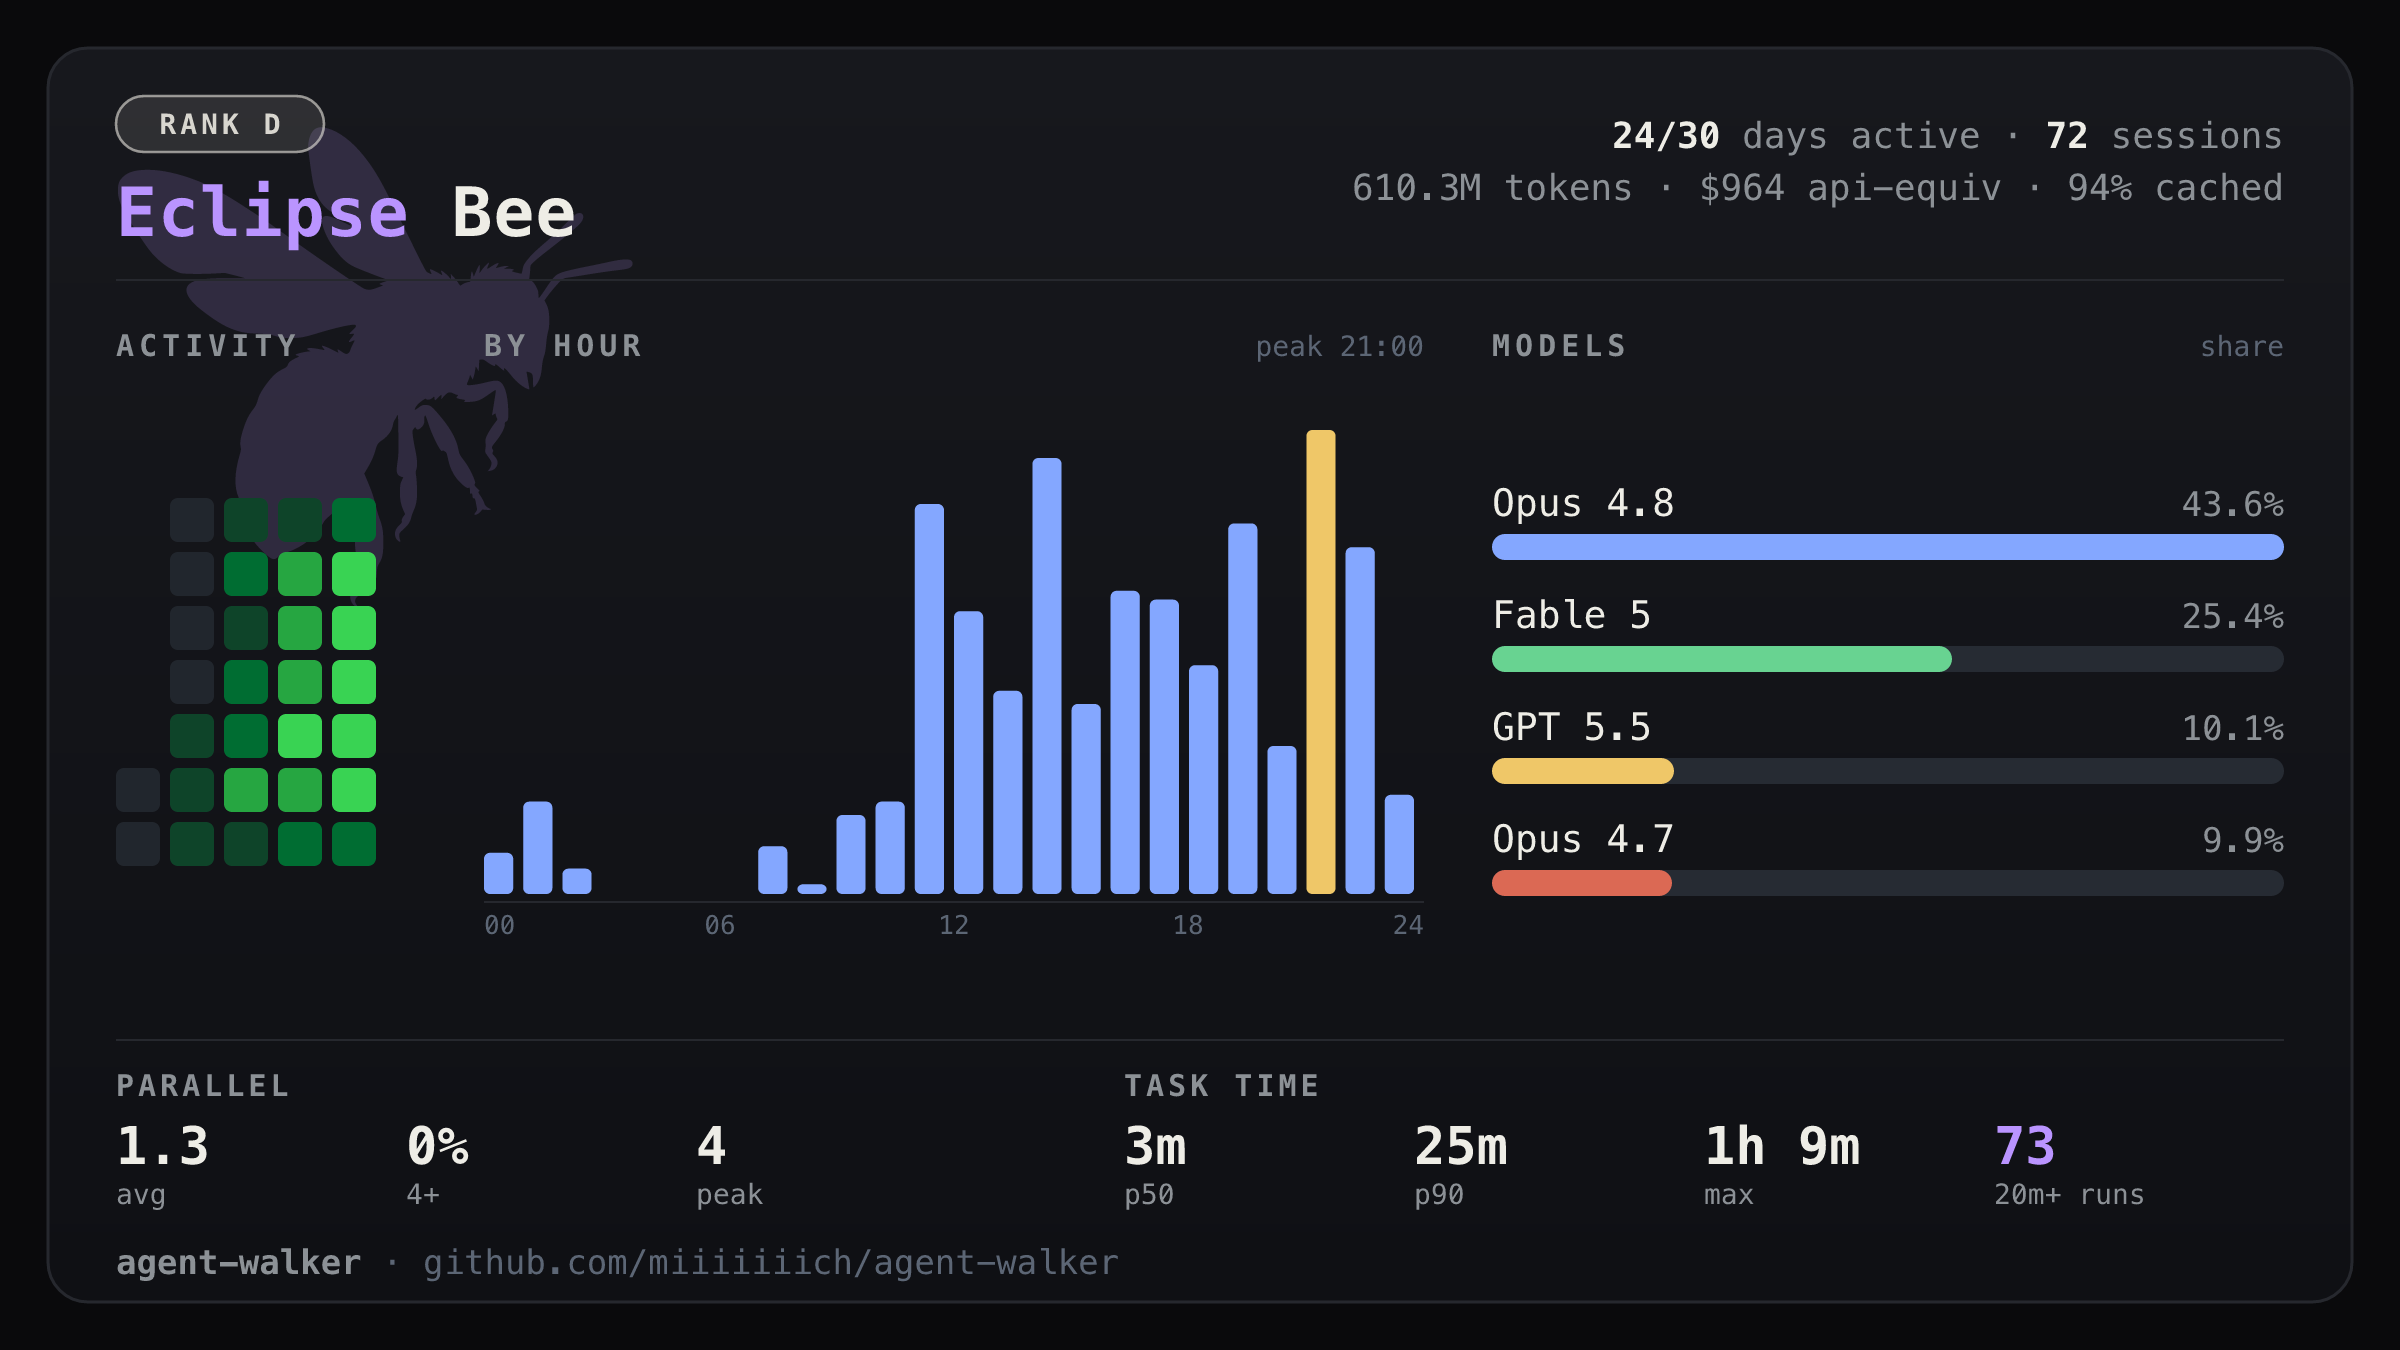
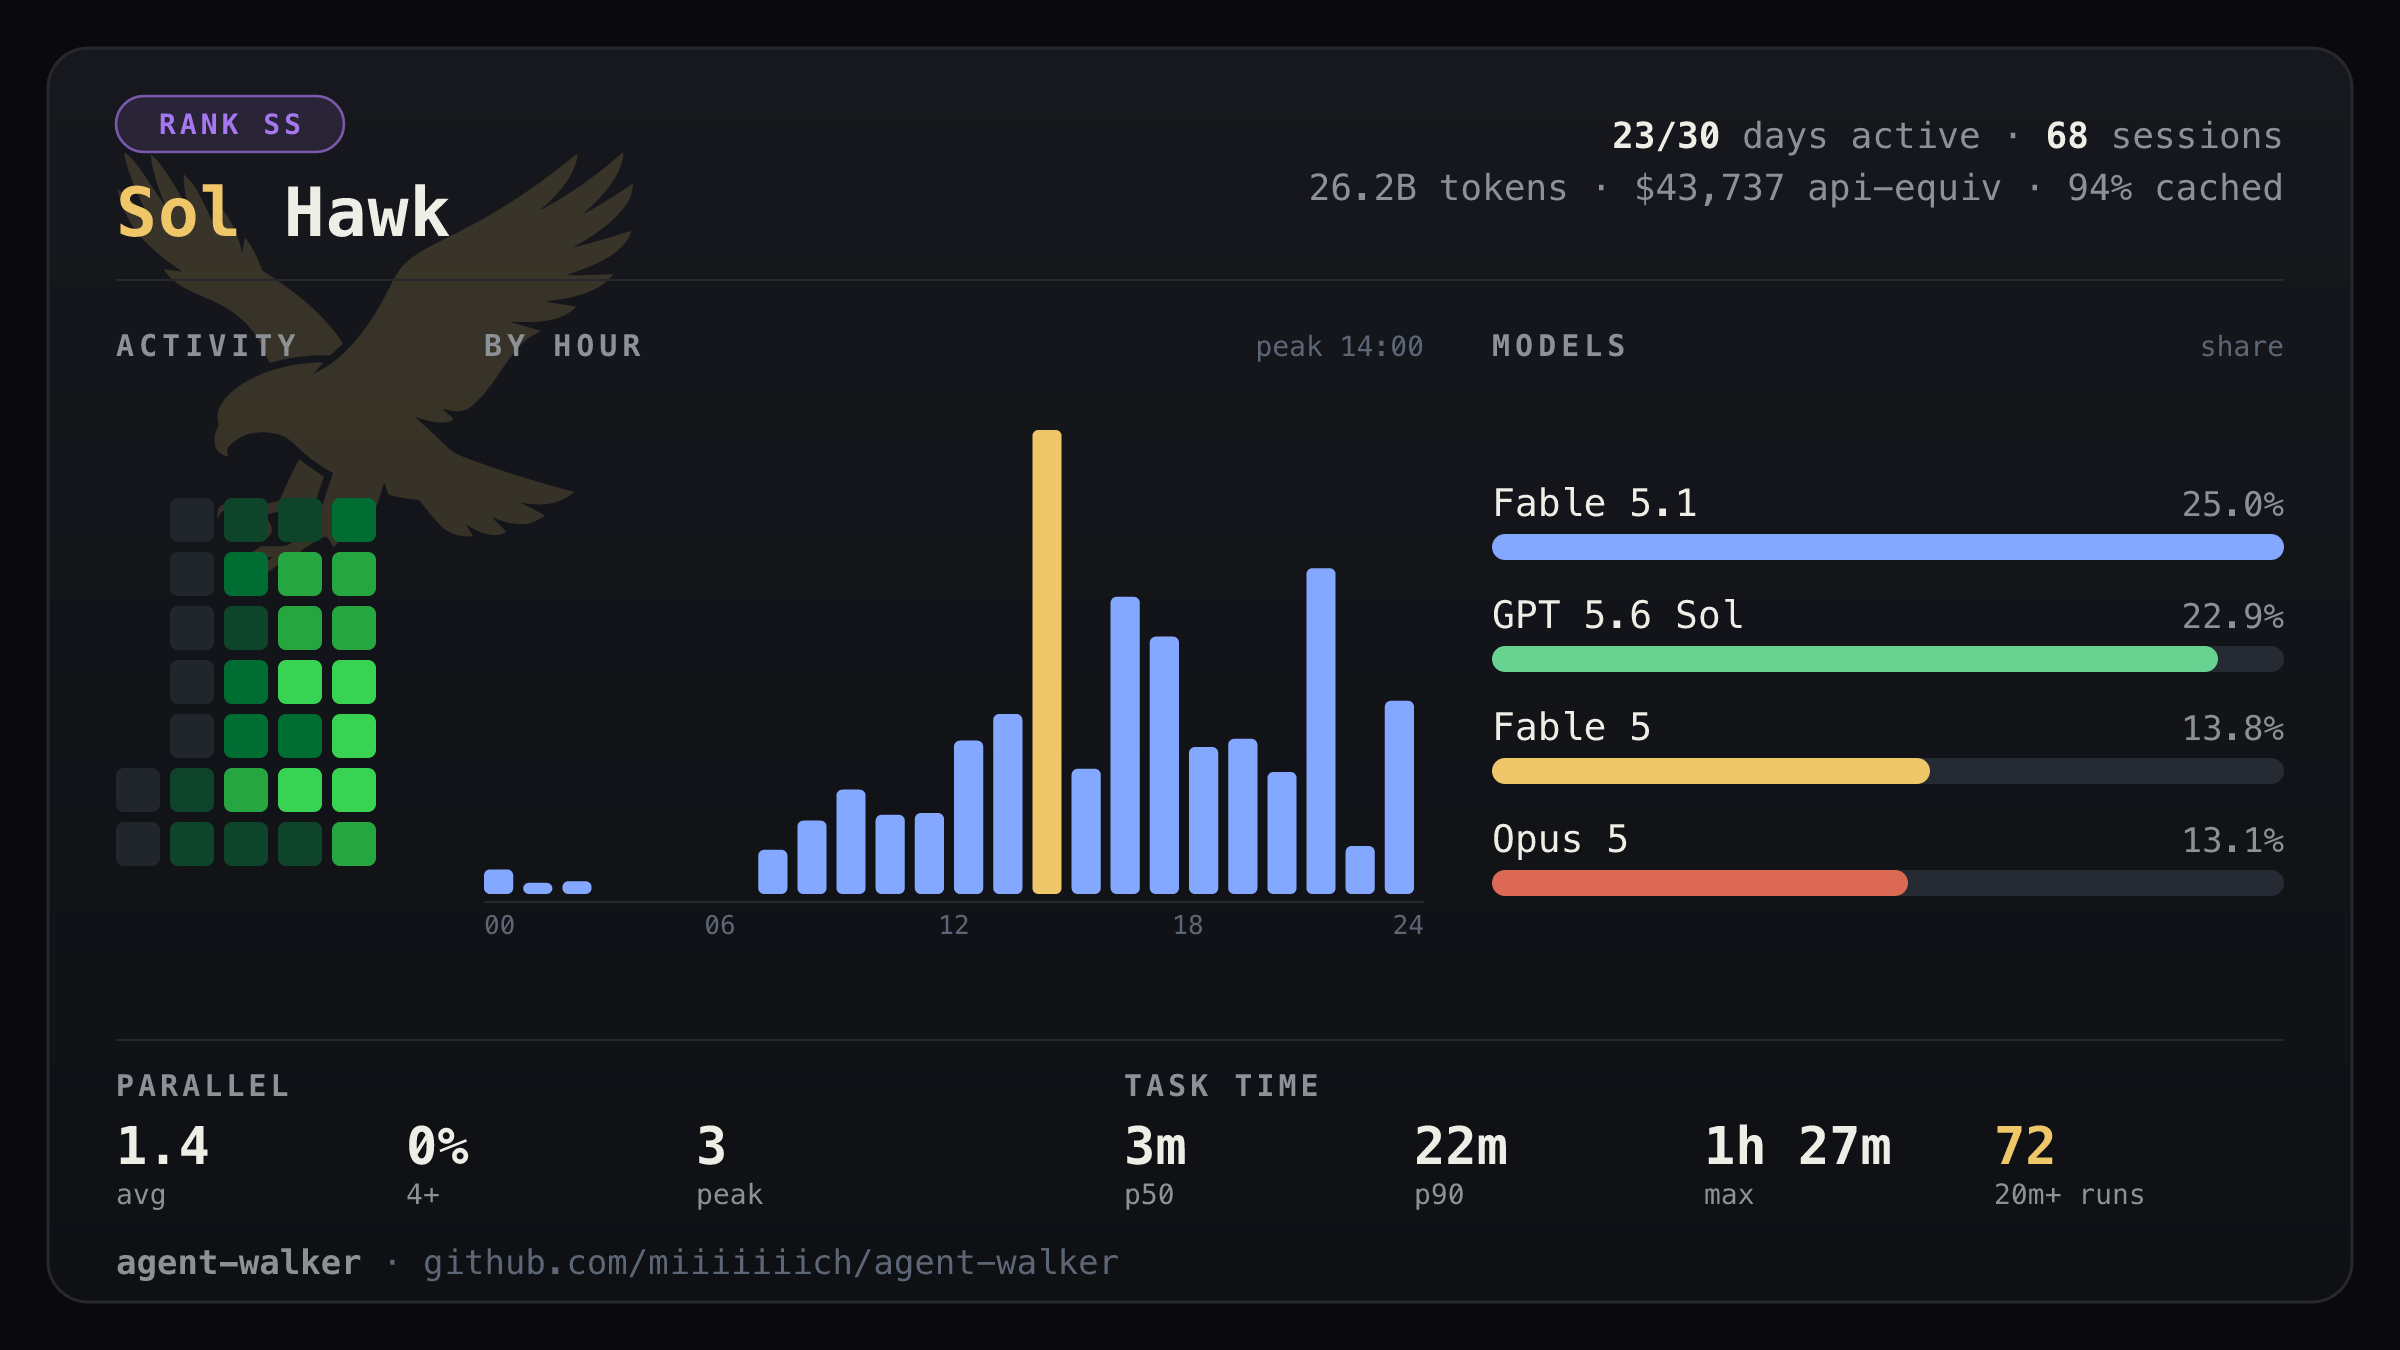
README badges, demo on current models, and a model-label fix (#73)

diff --git a/src/demo.rs b/src/demo.rs
@@ -10,9 +10,11 @@ use time::{Duration, OffsetDateTime, Time, Weekday};
 
 use crate::analyzer::summarize;
 use crate::app::Config;
+#[cfg(test)]
+use crate::model::CreditSample;
 use crate::model::{
-    AppSummary, Collection, CreditSample, DurationEvent, EffortEvent, ModeEvent, Provider,
-    RateLimitSample, SessionTouch, SourceKind, TokenUsage, ToolEvent, UsageEvent,
+    AppSummary, Collection, DurationEvent, EffortEvent, ModeEvent, Provider, RateLimitSample,
+    SessionTouch, SourceKind, TokenUsage, ToolEvent, UsageEvent,
 };
 
 struct Rng(u64);
@@ -124,25 +126,32 @@ fn pick_project(rng: &mut Rng) -> String {
     PROJECTS[index].to_owned()
 }
 
-/// Claude model mix shifts over the period: an older Opus era hands over to
-/// the newer one, with Haiku doing background work throughout.
+/// Claude model mix shifts over the period: the Opus 4.x era hands over to
+/// the Claude 5 family (Fable 5 → Fable 5.1), with Sonnet on lighter turns and
+/// Haiku doing background work throughout.
 fn pick_claude_model(rng: &mut Rng, progress: f64) -> &'static str {
-    if rng.chance(6) {
+    if rng.chance(5) {
         return "claude-haiku-4-5";
     }
-    if progress > 0.85 && rng.chance(25) {
-        return "claude-fable-5";
+    if rng.chance(4) {
+        return "claude-sonnet-5";
     }
-    if progress < 0.45 {
-        if rng.chance(92) {
+    if progress < 0.35 {
+        if rng.chance(70) {
             "claude-opus-4-7"
         } else {
-            "claude-sonnet-4-6"
+            "claude-opus-5"
         }
-    } else if rng.chance(94) {
-        "claude-opus-4-8"
+    } else if progress < 0.7 {
+        if rng.chance(55) {
+            "claude-fable-5"
+        } else {
+            "claude-opus-5"
+        }
+    } else if rng.chance(75) {
+        "claude-fable-5-1"
     } else {
-        "claude-opus-4-7"
+        "claude-opus-5"
     }
 }
 
@@ -189,7 +198,8 @@ fn daily_volume(rng: &mut Rng, progress: f64, weekday: Weekday) -> u64 {
     if progress < 0.3 && rng.chance(55) {
         return 0;
     }
-    let ramp = 4_000_000.0 + 56_000_000.0 * progress * progress;
+    // Envelope tuned so the demo Claude tab lands in the S band and Codex (at 1/2) in the A band.
+    let ramp = 160_000_000.0 + 1_450_000_000.0 * progress * progress;
     let noise = rng.range(50, 160) as f64 / 100.0;
     let weekend = matches!(weekday, Weekday::Saturday | Weekday::Sunday);
     let weekend_factor = if weekend { 0.35 } else { 1.0 };
@@ -305,6 +315,22 @@ fn claude_collection(now: OffsetDateTime, days: u16, rng: &mut Rng) -> Collectio
     clippy::cast_precision_loss,
     reason = "Day indices are tiny; precision is irrelevant for fake data."
 )]
+/// Codex model mix: GPT-5.6 Sol for most of the period, GPT-6 Astra taking
+/// over toward the end.
+fn pick_codex_model(rng: &mut Rng, progress: f64) -> &'static str {
+    if progress > 0.75 && rng.chance(80) {
+        "gpt-6-astra"
+    } else if rng.chance(90) {
+        "gpt-5.6-sol"
+    } else {
+        "gpt-5.6-terra"
+    }
+}
+
+#[allow(
+    clippy::cast_precision_loss,
+    reason = "Day indices are tiny; precision is irrelevant for fake data."
+)]
 fn codex_collection(now: OffsetDateTime, days: u16, rng: &mut Rng) -> Collection {
     let mut collection = Collection::new(Provider::Codex, PathBuf::from("demo data"));
     let total_days = i64::from(days.max(1));
@@ -312,8 +338,8 @@ fn codex_collection(now: OffsetDateTime, days: u16, rng: &mut Rng) -> Collection
     for day_index in 0..total_days {
         let date = (now - Duration::days(total_days - 1 - day_index)).date();
         let progress = day_index as f64 / total_days as f64;
-        let volume = daily_volume(rng, progress, date.weekday()) / 4;
-        if volume == 0 || rng.chance(35) {
+        let volume = daily_volume(rng, progress, date.weekday()) / 10 * 7;
+        if volume == 0 || rng.chance(10) {
             continue;
         }
 
@@ -326,7 +352,7 @@ fn codex_collection(now: OffsetDateTime, days: u16, rng: &mut Rng) -> Collection
         collection.usage_events.push(UsageEvent {
             timestamp: Some(timestamp),
             session_id: Some(session_id.clone()),
-            model: Some("gpt-5.5".to_owned()),
+            model: Some(pick_codex_model(rng, progress).to_owned()),
             source_kind: SourceKind::Main,
             attribution_agent: None,
             attribution_skill: None,
@@ -394,6 +420,7 @@ fn codex_collection(now: OffsetDateTime, days: u16, rng: &mut Rng) -> Collection
 /// Copilot demo: session-exit token deltas plus the AI-credit ledger the
 /// CREDITS panel renders. Kept lighter than Claude/Codex — a secondary agent
 /// in the demo persona.
+#[cfg(test)]
 #[allow(
     clippy::cast_precision_loss,
     reason = "Day indices are tiny; precision is irrelevant for fake data."
@@ -472,8 +499,12 @@ fn copilot_collection(now: OffsetDateTime, days: u16, rng: &mut Rng) -> Collecti
     collection
 }
 
-/// Build a complete synthetic report through the real analyzer, so the demo
-/// exercises exactly the rendering paths real data does.
+#[cfg(test)]
+pub(crate) fn copilot_collection_for_tests(now: OffsetDateTime, days: u16) -> Collection {
+    let mut rng = Rng(0x5EED_CAFE_F00D_0002);
+    copilot_collection(now, days, &mut rng)
+}
+
 pub fn demo_report(config: &Config) -> AppSummary {
     let now = OffsetDateTime::now_utc().to_offset(config.local_offset);
     let mut rng = Rng(0x5EED_CAFE_F00D_0001);
@@ -481,8 +512,6 @@ pub fn demo_report(config: &Config) -> AppSummary {
     let collections = vec![
         claude_collection(now, config.days, &mut rng),
         codex_collection(now, config.days, &mut rng),
-        copilot_collection(now, config.days, &mut rng),
-        Collection::new(Provider::Agy, PathBuf::from("demo data")),
     ];
 
     let providers = collections

diff --git a/src/format/model_label.rs b/src/format/model_label.rs
@@ -101,7 +101,7 @@ fn short_model_name_raw(name: &str) -> String {
     } else if lower.contains("gemini") {
         "Gemini"
     } else if lower.contains("gpt") {
-        return name.replace("gpt-", "GPT ");
+        return gpt_label(name);
     } else if lower == "openai" || lower == "codex" {
         return "Codex".to_owned();
     } else {
@@ -112,11 +112,60 @@ fn short_model_name_raw(name: &str) -> String {
         return name.to_owned();
     }
 
-    for version in ["4-8", "4-7", "4-6", "4-5", "4-1", "5", "4"] {
-        if lower.contains(version) {
-            return format!("{family} {}", version.replace('-', "."));
+    match claude_version(&lower, family) {
+        Some(version) => format!("{family} {version}"),
+        None => family.to_owned(),
+    }
+}
+
+/// `claude-fable-5-1` → `5.1`, `claude-opus-5` → `5`, `claude-sonnet-4-5-20250929` → `4.5`.
+/// The version is the run of short numeric segments right after the family
+/// word; a long trailing segment (a date stamp) is not part of it.
+fn claude_version(lower: &str, family: &str) -> Option<String> {
+    let is_ver = |seg: &&str| seg.len() <= 2 && seg.chars().all(|c| c.is_ascii_digit());
+    let at = lower.find(&family.to_ascii_lowercase())?;
+    let after: Vec<&str> = lower[at + family.len()..]
+        .split('-')
+        .filter(|seg| !seg.is_empty())
+        .take_while(is_ver)
+        .take(2)
+        .collect();
+    if !after.is_empty() {
+        return Some(after.join("."));
+    }
+    // Older ids put the version before the family word: `claude-3-5-sonnet-20241022`.
+    let mut before: Vec<&str> = lower[..at]
+        .rsplit('-')
+        .filter(|seg| !seg.is_empty())
+        .take_while(is_ver)
+        .take(2)
+        .collect();
+    if before.is_empty() {
+        return None;
+    }
+    before.reverse();
+    Some(before.join("."))
+}
+
+/// `gpt-5.5` → `GPT 5.5`, `gpt-5.6-sol` → `GPT 5.6 Sol`, `gpt-6-astra` → `GPT 6 Astra`.
+fn gpt_label(name: &str) -> String {
+    let Some(rest) = name.strip_prefix("gpt-") else {
+        return name.to_owned();
+    };
+    let mut out = String::from("GPT");
+    for seg in rest.split('-').filter(|seg| !seg.is_empty()) {
+        out.push(' ');
+        if seg.chars().all(|c| c.is_ascii_digit() || c == '.') {
+            out.push_str(seg);
+        } else {
+            // ASCII-only: a Unicode uppercase could turn a disallowed character into
+            // allowed ASCII (`ß` → `SS`) and slip past `sanitize_label`.
+            let mut chars = seg.chars();
+            if let Some(first) = chars.next() {
+                out.push(first.to_ascii_uppercase());
+                out.push_str(chars.as_str());
+            }
         }
     }
-
-    family.to_owned()
+    out
 }

diff --git a/src/ui/page.rs b/src/ui/page.rs
@@ -422,6 +422,8 @@ mod tests {
     /// sections end-to-end: synthetic collections through the real analyzer
     /// through the real page renderer. Guards against demo fixtures that
     /// compile but never fire (e.g. a skill pick rate that rounds to zero).
+    /// The demo persona runs Claude and Codex only, so CREDITS (Copilot) is
+    /// covered by the fixture tests instead.
     #[test]
     fn demo_report_renders_v09_sections() {
         let config = crate::app::Config {
@@ -459,21 +461,25 @@ mod tests {
         assert!(codex_page.contains("peak 100%"));
         assert!(codex_page.contains("xhigh"));
 
-        let copilot = report
-            .providers
-            .iter()
-            .find(|summary| summary.provider == Provider::Copilot)
-            .expect("demo should have a Copilot provider");
-        let copilot_page = rendered(copilot, 110);
-        assert!(copilot_page.contains("CREDITS"));
-        assert!(copilot_page.contains("30d total"));
-        assert!(copilot_page.contains("COMPLETION"));
-
         let total_page = rendered(&report.combined, 110);
         assert!(!total_page.contains("SKILLS"));
         assert!(!total_page.contains("LIMITS"));
         assert!(!total_page.contains("MODES"));
         assert!(!total_page.contains("CREDITS"));
+    }
+
+    /// The demo persona runs Claude and Codex only, so CREDITS (Copilot) is
+    /// exercised here through its own synthetic collection — still the real
+    /// analyzer and the real page renderer.
+    #[test]
+    fn copilot_collection_renders_credits_end_to_end() {
+        let now = time::OffsetDateTime::now_utc();
+        let collection = crate::demo::copilot_collection_for_tests(now, 30);
+        let summary = crate::analyzer::summarize(&collection, now, 30, time::UtcOffset::UTC);
+        let page = rendered(&summary, 110);
+        assert!(page.contains("CREDITS"));
+        assert!(page.contains("30d total"));
+        assert!(page.contains("COMPLETION"));
     }
 
     /// Right-column order: the "how you drive it" panels lead (CONTEXT next

diff --git a/src/format.rs b/src/format.rs
@@ -190,6 +190,17 @@ mod tests {
         assert_eq!(short_model_name("claude-sonnet-4-5-20250929"), "Sonnet 4.5");
         assert_eq!(short_model_name("gpt-5.5"), "GPT 5.5");
         assert_eq!(short_model_name("custom-model"), "custom-model");
+        // Claude 5 family: the point version must survive, and a date stamp must not.
+        assert_eq!(short_model_name("claude-fable-5-1"), "Fable 5.1");
+        assert_eq!(short_model_name("claude-fable-5"), "Fable 5");
+        assert_eq!(short_model_name("claude-opus-5"), "Opus 5");
+        assert_eq!(short_model_name("claude-haiku-4-5-20251001"), "Haiku 4.5");
+        // Codex model ids carry a codename suffix.
+        assert_eq!(short_model_name("gpt-5.6-sol"), "GPT 5.6 Sol");
+        assert_eq!(short_model_name("gpt-6-astra"), "GPT 6 Astra");
+        // Older ids carry the version before the family word.
+        assert_eq!(short_model_name("claude-3-5-sonnet-20241022"), "Sonnet 3.5");
+        assert_eq!(short_model_name("claude-opus-4-1-20250805"), "Opus 4.1");
     }
 
     #[test]
@@ -203,6 +214,9 @@ mod tests {
         );
         // The gpt-prefixed passthrough is judged the same way.
         assert_eq!(short_model_name("gpt-/etc/passwd"), "Other");
+        // Capitalising a suffix must not launder a non-ASCII character into
+        // allowed ASCII (`ß` → `SS`) before the sanitizer sees it.
+        assert_eq!(short_model_name("gpt-ßsecret"), "Other");
         // Non-ASCII / control-only names collapse rather than yielding an empty
         // chip.
         assert_eq!(short_model_name("名前/\t"), "Other");

diff --git a/README.ja.md b/README.ja.md
@@ -1,5 +1,7 @@
 # agent-walker
 
+[![npm](https://img.shields.io/npm/v/agent-walker)](https://www.npmjs.com/package/agent-walker)
+[![downloads](https://img.shields.io/npm/dt/agent-walker)](https://tanstack.com/stats/npm?packageGroups=%5B%7B%22packages%22%3A%5B%7B%22name%22%3A%22agent-walker%22%7D%5D%7D%5D&range=30-days)
 [![CI](https://github.com/miiiiiiich/agent-walker/actions/workflows/ci.yml/badge.svg)](https://github.com/miiiiiiich/agent-walker/actions/workflows/ci.yml)
 [![License: MIT OR Apache-2.0](https://img.shields.io/badge/license-MIT%20OR%20Apache--2.0-blue.svg)](#ライセンス)
 [![MSRV](https://img.shields.io/badge/rustc-1.93+-blue.svg)](https://www.rust-lang.org)

diff --git a/README.md b/README.md
@@ -1,5 +1,7 @@
 # agent-walker
 
+[![npm](https://img.shields.io/npm/v/agent-walker)](https://www.npmjs.com/package/agent-walker)
+[![downloads](https://img.shields.io/npm/dt/agent-walker)](https://tanstack.com/stats/npm?packageGroups=%5B%7B%22packages%22%3A%5B%7B%22name%22%3A%22agent-walker%22%7D%5D%7D%5D&range=30-days)
 [![CI](https://github.com/miiiiiiich/agent-walker/actions/workflows/ci.yml/badge.svg)](https://github.com/miiiiiiich/agent-walker/actions/workflows/ci.yml)
 [![License: MIT OR Apache-2.0](https://img.shields.io/badge/license-MIT%20OR%20Apache--2.0-blue.svg)](#license)
 [![MSRV](https://img.shields.io/badge/rustc-1.93+-blue.svg)](https://www.rust-lang.org)
